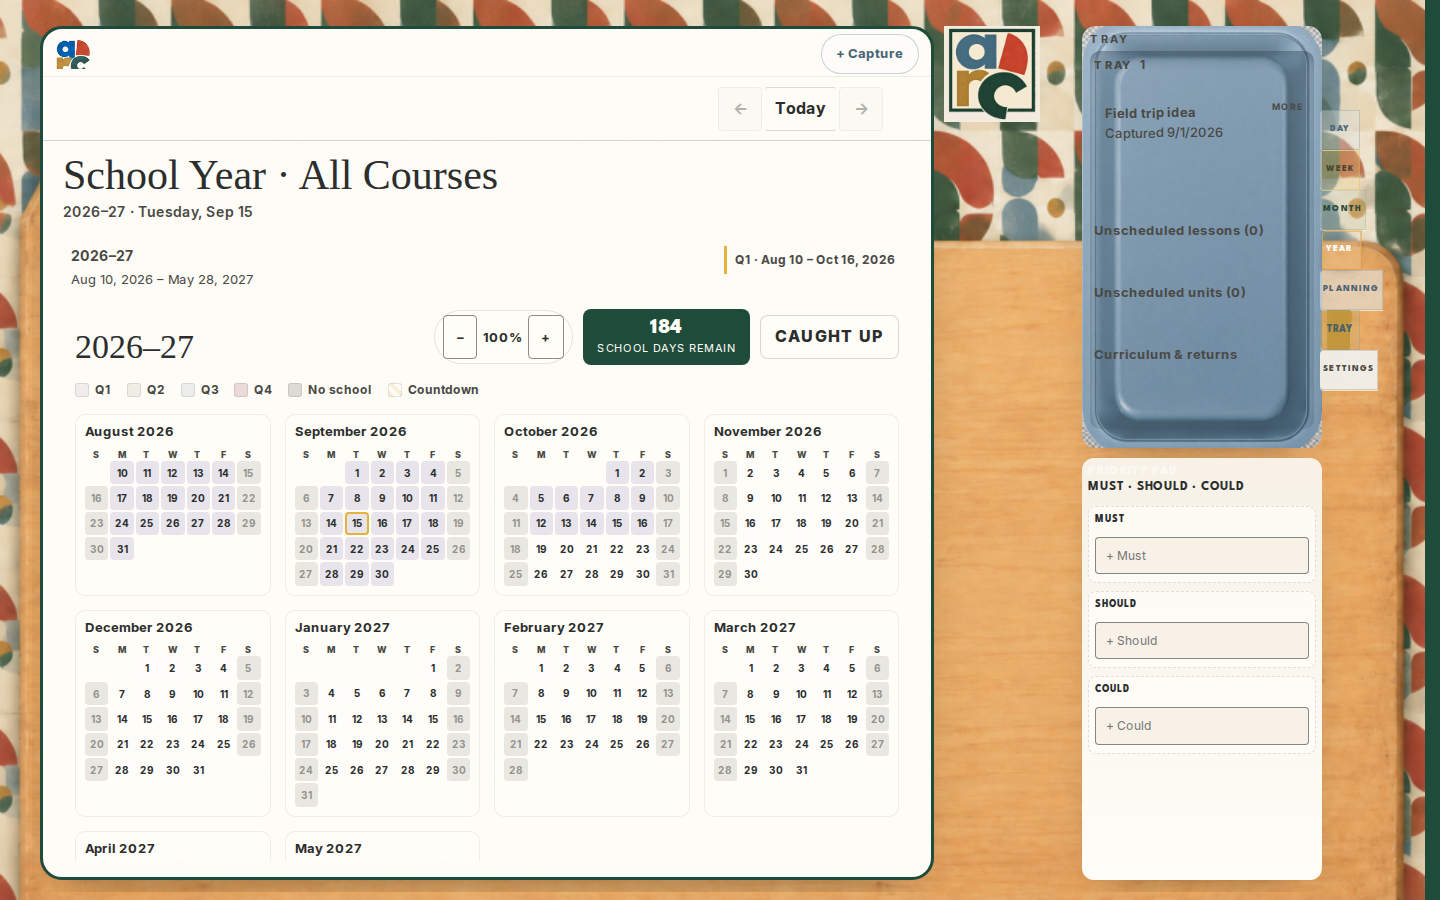
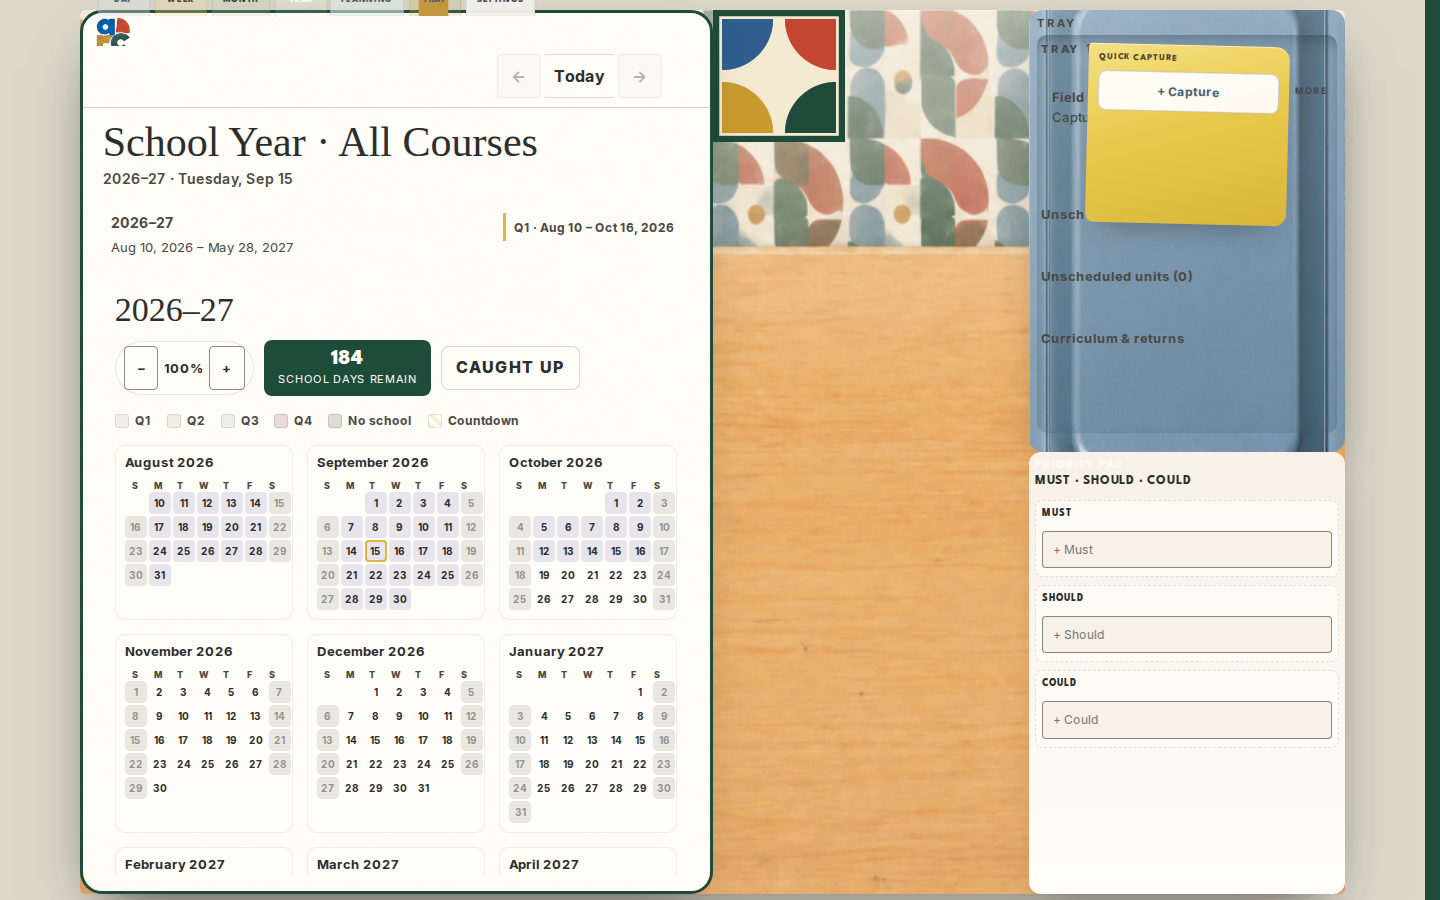
test(desk): figma-pass evidence and visual implementation report
Add 1696×1254 evidence capture script, update desk-pass wood assertion
for tabletop, and document visual implementation with behavior verification
notes. Refresh arc-desk-pass smoke screenshots.

diff --git a/src/components/CalendarProjectionView.tsx b/src/components/CalendarProjectionView.tsx
@@ -317,6 +317,7 @@ function PlanningWeekStrip({ title, days, focusDate, planningContext, planContex
       data-plan-section={planContext?.sectionId ?? ''}
       data-plan-lesson={planContext?.lessonId ?? ''}
     >
+      <span className="sr-only">{title}</span>
       {termContext ? <div className="projection-heading-row projection-heading-row--terms-only">{termContext}</div> : null}
       {planningPeriodReturnPending && onReturnToPlanningPeriod ? (
         <p className="planning-week-actions"><button type="button" className="plan-back-link" onClick={onReturnToPlanningPeriod}>Back to Planning period</button></p>

diff --git a/src/navigation/deskPreferences.ts b/src/navigation/deskPreferences.ts
@@ -1,4 +1,4 @@
-import { CALENDAR_VIEWS, DEFAULT_HOME_VIEW, type CalendarView } from './calendarViews'
+import { CALENDAR_VIEWS, type CalendarView } from './calendarViews'
 import type { MscSizePreset, PlannerSizePreset, TraySizePreset } from './deskLayout'
 import { loadViewPreferences, saveViewPreferences, type ViewPreferences } from './viewPreferences'
 

diff --git a/docs/overnight/ARC-DESK-VISUAL-IMPLEMENTATION-REPORT.md b/docs/overnight/ARC-DESK-VISUAL-IMPLEMENTATION-REPORT.md
@@ -1,0 +1,91 @@
+# ARC Desk Visual Implementation Report
+
+**Branch:** `cursor/arc-production-integration`  
+**Implementation SHA:** _(see git log after push — baseline `2d72807`, desk visual commits on top)_  
+**Figma authority:** file `CfWcuQPY4ljYXondICj2ZX`, frame node `6:3194` (1696×1254 ref; wood field 1440×1024)  
+**Behavioral authority:** Arc on branch (planning, tray, MSC, edit workspace, stacks unchanged)
+
+## Summary
+
+Recomposed Plan calendar mode into a **physical desk**: centered light-wood **tabletop** (`1440×1024` aspect, scaled in viewport), absolute placement of planner / tray / MSC / quick capture / notes / ArcTable, **planner-attached index tabs** (no vertical SaaS rail on desk), and **no page scroll** (html/body + shell lock; internal planner scroll only). Domain logic, routing, drag contracts, and ArcTable internals were not rewritten.
+
+## Component mapping (Kelly 1–12)
+
+| # | Spec | Implementation |
+|---|------|----------------|
+| 1 | Desk root, light wood, no SaaS shell | `.arc-shell--desk` neutral mat; `.arc-desk-viewport` + `.arc-desk-tabletop` wood grain |
+| 2 | Planner ~944×652, cream, green trim, strong shadow | `.arc-calendar-spread--desk` + proportional `.arc-planner-object` slot (~65.6×63.7%) |
+| 3 | Physical tabs on planner | `.arc-planner-physical-tabs` on planner; side rail tabs hidden when `deskEnabled` |
+| 4 | Tray upper-central, blue molded asset | `.arc-desk-tray-dock` + `blue-molded-tray.png`; `WorkspacePanel` unchanged |
+| 5 | MSC pad left, rotated cream pad | `.arc-desk-priority-dock` + `DeskPriorityPad`; `rotate(-2.2deg)` |
+| 6 | Quick capture upper-right sticky | `DeskQuickCaptureSticky` + existing `GlobalCaptureAffordance` |
+| 7 | Notes secondary object | `DeskNotesObject` when `showDeskNotes`; Day/Month note UI unchanged in views |
+| 8 | ArcTable ~132×132, AT-001 assets | `ArcTableDeskFixture` `markSize={132}`; SVG mark unchanged |
+| 9 | Object shadows | Per-object drop-shadow / box-shadow on planner, tray, MSC, sticky, notes |
+| 10 | Typography | No font token changes (Instrument Serif, Inter, League Spartan) |
+| 11 | Desktop, no page scroll | `html:has(.arc-shell--desk)` overflow hidden; tabletop scales with `min()` |
+| 12 | Edit Workspace + move/pin | Existing grid edit mode + `deskLayout` persistence verified |
+
+## Files changed
+
+- `src/components/B01Furniture.tsx` — desk viewport/tabletop, physical tabs, overlay side rail
+- `src/components/AppFrame.tsx` — desk quick capture sticky; capture removed from shell bar on desk
+- `src/components/DeskQuickCaptureSticky.tsx` — new presentation wrapper
+- `src/components/DeskNotesObject.tsx` — new secondary notes pad
+- `src/components/ArcTableDeskFixture.tsx` — optional `markSize` (132 on desk)
+- `src/styles/arc-desk.css` — physical layout, shadows, sticky, tab strip
+- `src/styles/b01-furniture.css` — desk overlay panels (`b01-side-rail--desk-overlays`)
+- `tests/arc-desk-pass.smoke.mjs` — wood assertion on `.arc-desk-tabletop`
+- `tests/arc-desk-figma-evidence.mjs` — evidence capture at 1696×1254
+- `package.json` — `test:arc-desk-figma-pass`
+- Minor: `CalendarProjectionView.tsx`, `deskPreferences.ts` (typecheck)
+
+## Behaviors verified
+
+| Behavior | Result |
+|----------|--------|
+| `npm run test:contracts` | **GREEN** |
+| `npm run test:arc-desk-pass` | **GREEN** — tray, MSC, ArcTable, edit workspace, layout persistence, year desk |
+| `npm run test:edit-workspace` | **GREEN** — stacks, pin, tray drag |
+| `npm run test:arc-desk-mark` | **GREEN** — AT-001 mark, quadrants, entitlements |
+| `npm run test:plan-year` | **RED** — Year → Home heading assertion (`.day-continuity` / tab hit target); likely pre-existing planner header IA, not desk-specific |
+| Preview `4173` + `?demo=1` | Rebuilt bundle; preview restarted on port 4173 |
+
+Preserved (not modified): planning domain, capture persistence, tray↔planner DnD, MSC promote, day notes laws, ArcTable session surfaces, shift/recovery, onboarding logic.
+
+## Visual diffs retained
+
+- Side-by-side and pass screenshots under `docs/overnight/evidence/arc-desk-figma-pass/`
+- Updated desk pass shots under `docs/overnight/evidence/arc-desk-pass/` (smoke run)
+
+## Mismatches / honest gaps
+
+| Item | Severity | Notes |
+|------|----------|-------|
+| Figma `6:3194` export via MCP | **YELLOW** | Node not resolved in MCP session; `01-figma-reference.png` seeded from prior desk pass reference |
+| `06-tray-drag.png` | **YELLOW** | Not captured (hover-only step; no drag simulation in evidence script) |
+| Pixel parity vs Figma | **YELLOW** | Proportional CSS slots, not literal px engine; reconciliation pass 04–09 captured |
+| `test:plan-year` | **RED** | Failed on Teaching Day header after Year → Home (see above) |
+| Mobile desk | **YELLOW** | Unchanged: tray/MSC hidden `<900px`; tabs wrap on planner |
+
+## RED / YELLOW rollup
+
+- **RED:** `test:plan-year` smoke (1 assertion path).
+- **YELLOW:** Figma MCP frame export; tray-drag evidence frame; sub-pixel Figma parity; mobile desk unchanged.
+
+## Evidence list
+
+`docs/overnight/evidence/arc-desk-figma-pass/`:
+
+- `01-figma-reference.png`
+- `02-implementation-pass-1.png`
+- `03-side-by-side.png`
+- `04-final-desk.png`
+- `05-edit-workspace.png`
+- `07-day.png`, `08-week.png`, `09-month.png`
+
+## Preview
+
+Local: `npm run preview -- --host 127.0.0.1 --port 4173` → `http://127.0.0.1:4173/?demo=1`
+
+**Stop:** Implementation + report only — no merge, no deploy.
